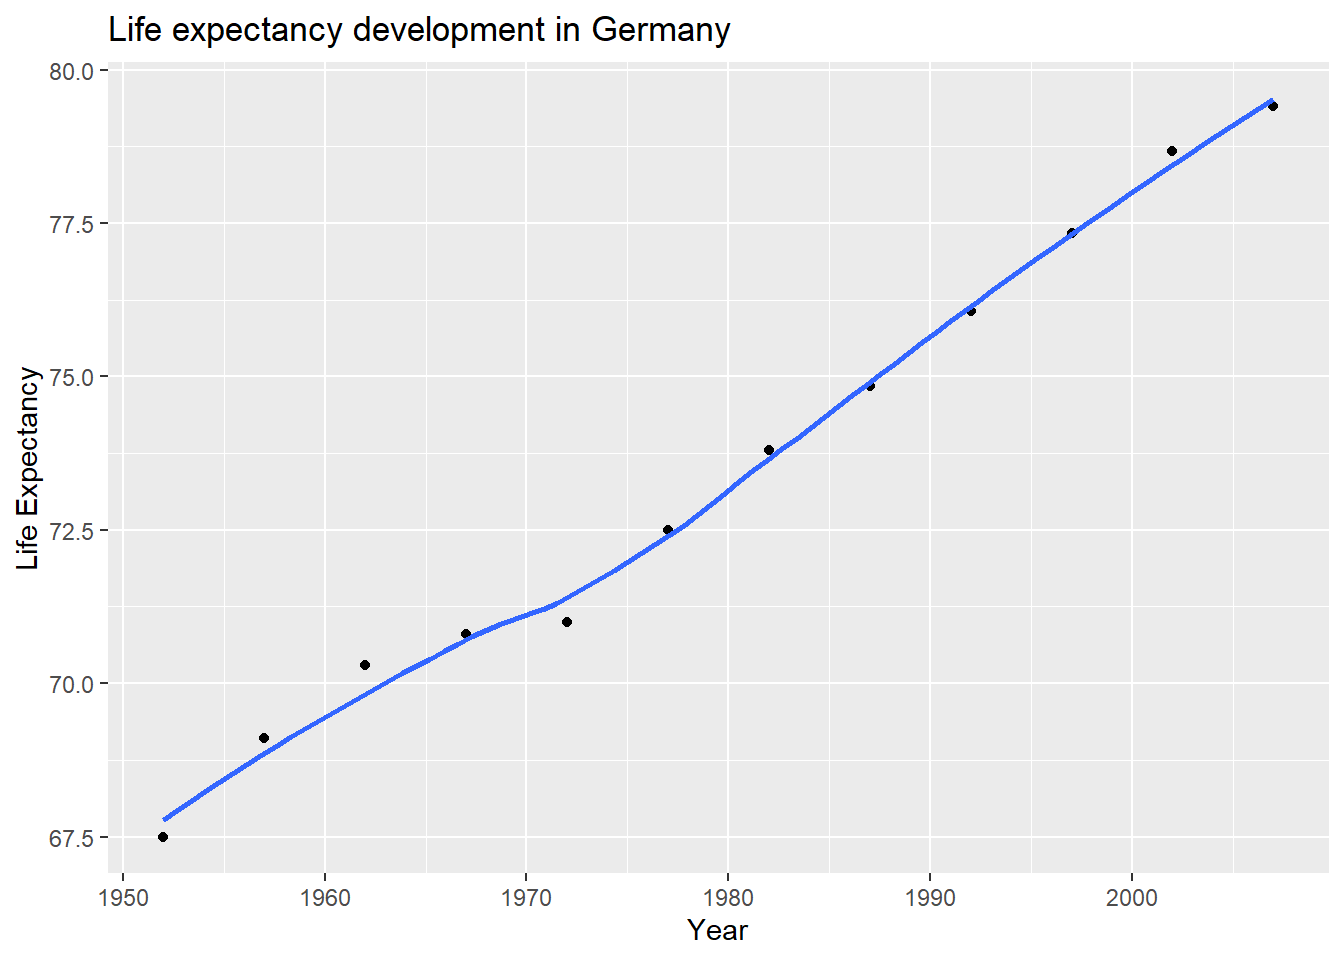
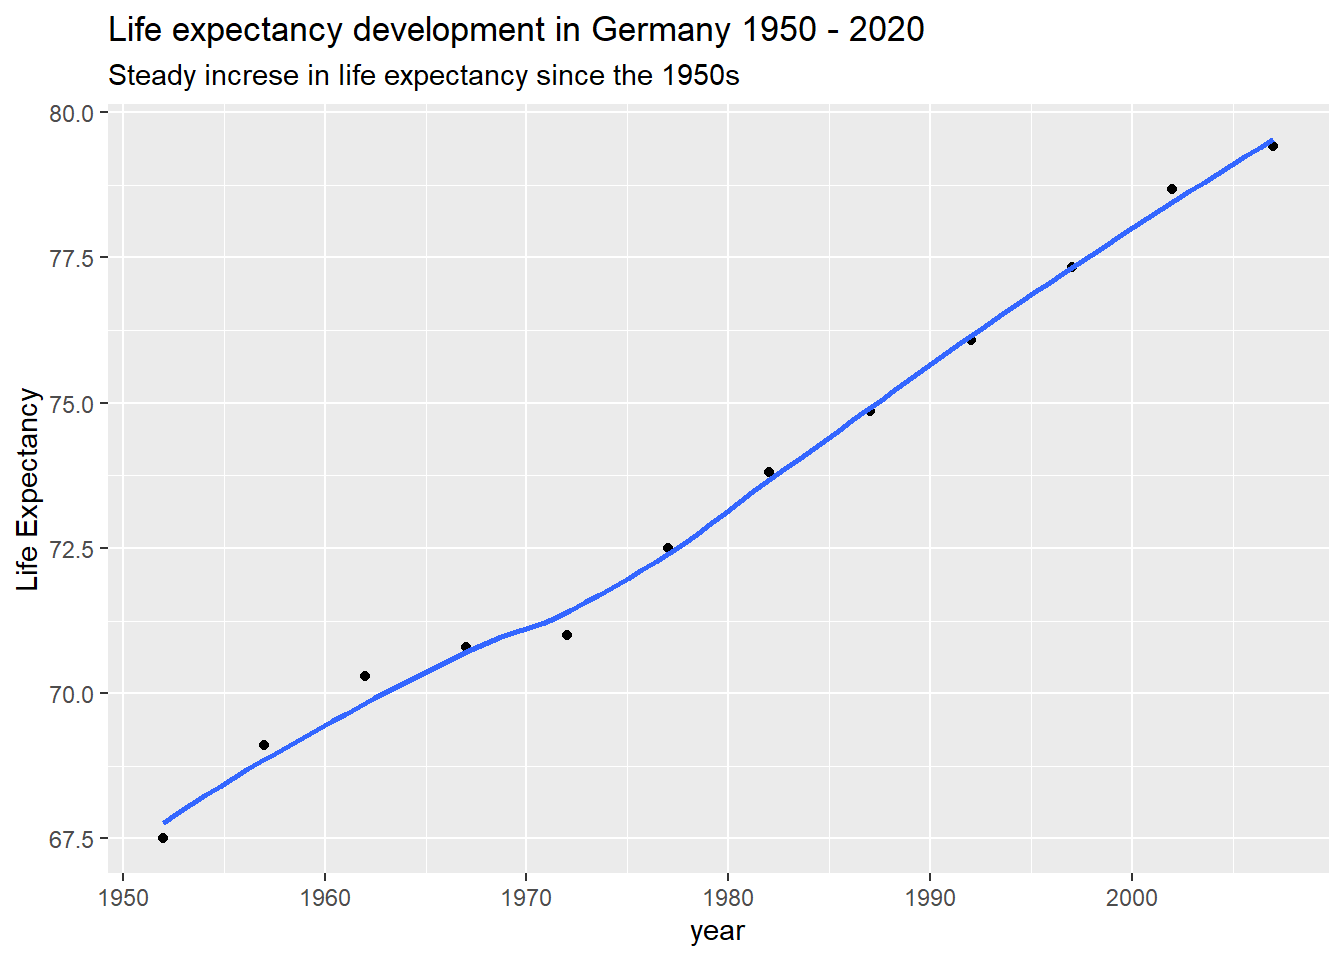
13-oct-20 2

diff --git a/public/blogs/blog15/index.html b/public/blogs/blog15/index.html
@@ -114,34 +114,30 @@
 ## 18 Albania     Europe     1977    68.9  2509048     3533.
 ## 19 Albania     Europe     1982    70.4  2780097     3631.
 ## 20 Albania     Europe     1987    72    3075321     3739.</code></pre>
-<p>Your task is to produce two graphs of how life expectancy has changed over the years for the <code>country</code> and the <code>continent</code> you come from.</p>
-<p>I have created the <code>country_data</code> and <code>continent_data</code> with the code below.</p>
 <pre class="r"><code>country_data &lt;- gapminder %&gt;% 
             filter(country == &quot;Germany&quot;) # just choosing Germany, as this is where I come from
 
 continent_data &lt;- gapminder %&gt;% 
             filter(continent == &quot;Europe&quot;)</code></pre>
-<p>First, create a plot of life expectancy over time for the single country you chose. You should use <code>geom_point()</code> to see the actual data points and <code>geom_smooth(se = FALSE)</code> to plot the underlying trendlines. You need to remove the comments <strong>#</strong> from the lines below for your code to run.</p>
 <pre class="r"><code>  plot2 &lt;- ggplot(data = country_data, mapping = aes(x = year, y = lifeExp))+
   geom_point() +
   geom_smooth(se = FALSE) +
-  labs(title = &quot;Life expectancy development in Germany&quot;,
-  x = &quot;Year&quot;,
-  y = &quot;Life Expectancy&quot;) +
+  labs(subtitle = &quot;Steady increse in life expectancy since the 1950s&quot;,
+       title = &quot;Life expectancy development in Germany 1950 - 2020&quot;,
+        sx = &quot;Year&quot;,
+        y = &quot;Life Expectancy&quot;) +
 NULL
 
 
 print(plot2)</code></pre>
 <pre><code>## `geom_smooth()` using method = &#39;loess&#39; and formula &#39;y ~ x&#39;</code></pre>
 <p><img src="/blogs/blog15_files/figure-html/lifeExp_one_country_with_label-1.png" width="672" /></p>
-<p>Secondly, produce a plot for all countries in the <em>continent</em> you come from. (Hint: map the <code>country</code> variable to the colour aesthetic).</p>
 <pre class="r"><code>ggplot(data =  continent_data, mapping = aes(x =  year, y =  lifeExp, colour= country))+
     geom_point() + 
     geom_smooth(se = FALSE) +
     NULL</code></pre>
 <pre><code>## `geom_smooth()` using method = &#39;loess&#39; and formula &#39;y ~ x&#39;</code></pre>
 <p><img src="/blogs/blog15_files/figure-html/lifeExp_one_continent-1.png" width="672" /></p>
-<p>Finally, using the original <code>gapminder</code> data, produce a life expectancy over time graph, grouped (or faceted) by continent. We will remove all legends, adding the <code>theme(legend.position="none")</code> in the end of our ggplot.</p>
 <pre class="r"><code> ggplot(data = gapminder , mapping = aes(x = year  , y =  lifeExp, colour= country))+
     geom_point() + 
     geom_smooth(se = FALSE) +
@@ -150,14 +146,16 @@ print(plot2)</code></pre>
     NULL</code></pre>
 <pre><code>## `geom_smooth()` using method = &#39;loess&#39; and formula &#39;y ~ x&#39;</code></pre>
 <p><img src="/blogs/blog15_files/figure-html/lifeExp_facet_by_continent-1.png" width="672" /></p>
-<p>Given these trends, what can you say about life expectancy since 1952? Again, don’t just say what’s happening in the graph. Tell some sort of story and speculate about the differences in the patterns.</p>
-<div id="germany" class="section level1">
-<h1>Germany</h1>
+<div id="commentary" class="section level1">
+<h1>Commentary</h1>
+<div id="overall" class="section level2">
+<h2>Overall</h2>
+<p>Overall life expectancy trend is positive. Though, it seems that the variance in life expectancy in European countries in 1952 was smaller compared to all other continents (exc. Oceania), this still seems to hold at the end of the observation period. With African countries’ life expectancies still being quite spread apart.</p>
+</div>
+<div id="germany" class="section level2">
+<h2>Germany</h2>
 <p>Life expectancy in Germany has been almost linearly increasing since 1952. Nowadays, people on average are expected to live around 80 years, which seems quite an increase from around 68 years in 1952. A period of strong economic growth, accompanied by progress in the medical / health area seem to drive this positive trend.</p>
 </div>
-<div id="overall" class="section level1">
-<h1>Overall</h1>
-<p>Overall life expectancy trend is positive. Though, it seems that the variance in life expectancy in European countries in 1952 was smaller compared to all other continents (exc. Oceania), this still seems to hold at the end of the observation period. With African countries’ life expectancies still being quite spread apart.</p>
 </div>
 
                         </div>

diff --git a/content/blogs/blog15.html b/content/blogs/blog15.html
@@ -38,34 +38,30 @@ output: html_document
 ## 18 Albania     Europe     1977    68.9  2509048     3533.
 ## 19 Albania     Europe     1982    70.4  2780097     3631.
 ## 20 Albania     Europe     1987    72    3075321     3739.</code></pre>
-<p>Your task is to produce two graphs of how life expectancy has changed over the years for the <code>country</code> and the <code>continent</code> you come from.</p>
-<p>I have created the <code>country_data</code> and <code>continent_data</code> with the code below.</p>
 <pre class="r"><code>country_data &lt;- gapminder %&gt;% 
             filter(country == &quot;Germany&quot;) # just choosing Germany, as this is where I come from
 
 continent_data &lt;- gapminder %&gt;% 
             filter(continent == &quot;Europe&quot;)</code></pre>
-<p>First, create a plot of life expectancy over time for the single country you chose. You should use <code>geom_point()</code> to see the actual data points and <code>geom_smooth(se = FALSE)</code> to plot the underlying trendlines. You need to remove the comments <strong>#</strong> from the lines below for your code to run.</p>
 <pre class="r"><code>  plot2 &lt;- ggplot(data = country_data, mapping = aes(x = year, y = lifeExp))+
   geom_point() +
   geom_smooth(se = FALSE) +
-  labs(title = &quot;Life expectancy development in Germany&quot;,
-  x = &quot;Year&quot;,
-  y = &quot;Life Expectancy&quot;) +
+  labs(subtitle = &quot;Steady increse in life expectancy since the 1950s&quot;,
+       title = &quot;Life expectancy development in Germany 1950 - 2020&quot;,
+        sx = &quot;Year&quot;,
+        y = &quot;Life Expectancy&quot;) +
 NULL
 
 
 print(plot2)</code></pre>
 <pre><code>## `geom_smooth()` using method = &#39;loess&#39; and formula &#39;y ~ x&#39;</code></pre>
 <p><img src="/blogs/blog15_files/figure-html/lifeExp_one_country_with_label-1.png" width="672" /></p>
-<p>Secondly, produce a plot for all countries in the <em>continent</em> you come from. (Hint: map the <code>country</code> variable to the colour aesthetic).</p>
 <pre class="r"><code>ggplot(data =  continent_data, mapping = aes(x =  year, y =  lifeExp, colour= country))+
     geom_point() + 
     geom_smooth(se = FALSE) +
     NULL</code></pre>
 <pre><code>## `geom_smooth()` using method = &#39;loess&#39; and formula &#39;y ~ x&#39;</code></pre>
 <p><img src="/blogs/blog15_files/figure-html/lifeExp_one_continent-1.png" width="672" /></p>
-<p>Finally, using the original <code>gapminder</code> data, produce a life expectancy over time graph, grouped (or faceted) by continent. We will remove all legends, adding the <code>theme(legend.position="none")</code> in the end of our ggplot.</p>
 <pre class="r"><code> ggplot(data = gapminder , mapping = aes(x = year  , y =  lifeExp, colour= country))+
     geom_point() + 
     geom_smooth(se = FALSE) +
@@ -74,12 +70,14 @@ print(plot2)</code></pre>
     NULL</code></pre>
 <pre><code>## `geom_smooth()` using method = &#39;loess&#39; and formula &#39;y ~ x&#39;</code></pre>
 <p><img src="/blogs/blog15_files/figure-html/lifeExp_facet_by_continent-1.png" width="672" /></p>
-<p>Given these trends, what can you say about life expectancy since 1952? Again, don’t just say what’s happening in the graph. Tell some sort of story and speculate about the differences in the patterns.</p>
-<div id="germany" class="section level1">
-<h1>Germany</h1>
+<div id="commentary" class="section level1">
+<h1>Commentary</h1>
+<div id="overall" class="section level2">
+<h2>Overall</h2>
+<p>Overall life expectancy trend is positive. Though, it seems that the variance in life expectancy in European countries in 1952 was smaller compared to all other continents (exc. Oceania), this still seems to hold at the end of the observation period. With African countries’ life expectancies still being quite spread apart.</p>
+</div>
+<div id="germany" class="section level2">
+<h2>Germany</h2>
 <p>Life expectancy in Germany has been almost linearly increasing since 1952. Nowadays, people on average are expected to live around 80 years, which seems quite an increase from around 68 years in 1952. A period of strong economic growth, accompanied by progress in the medical / health area seem to drive this positive trend.</p>
 </div>
-<div id="overall" class="section level1">
-<h1>Overall</h1>
-<p>Overall life expectancy trend is positive. Though, it seems that the variance in life expectancy in European countries in 1952 was smaller compared to all other continents (exc. Oceania), this still seems to hold at the end of the observation period. With African countries’ life expectancies still being quite spread apart.</p>
 </div>

diff --git a/public/blogs/blog6/index.html b/public/blogs/blog6/index.html
@@ -81,10 +81,8 @@
                             
 
 
-<p>.. beers, wine and other spirits!</p>
-<div id="approach" class="section level2">
-<h2>Approach</h2>
-<p>ADD</p>
+<div id="beers-wine-and-other-spirits" class="section level2">
+<h2>.. beers, wine and other spirits!</h2>
 <pre class="r"><code>knitr::opts_chunk$set(
   message = FALSE, 
   warning = FALSE, 
@@ -452,7 +450,13 @@ top25_beer &lt;- beer %&gt;%
 
 #Use ggplot() to plot only the top 25 entries summarised in top25_beer, adjusting the x-axis labels for readibility, as well as colour, axis labels and title
 
-ggplot(top25_beer, aes(x = reorder(country, desc(beer_servings)), y= beer_servings),) + geom_col(fill=&quot;blue&quot;) + labs(x=&quot;Country&quot;,y = &quot;Beer Servings Consumed Per Person&quot;, title = &quot;Top 25 Beer Consuming Countries&quot;) + theme(axis.text.x = element_text(angle=30, size=7))</code></pre>
+ggplot(top25_beer, aes(x = reorder(country, desc(beer_servings)), y= beer_servings),) +
+      geom_col(fill=&quot;blue&quot;) +
+      labs(x=&quot;Country&quot;,
+           y = &quot;Beer Servings Consumed Per Person&quot;,
+           title = &quot;Namibia beats Czech Republic for the beer consumption top spot&quot;,
+           subtitle = &quot;Top 25 Beer Consuming Countries&quot;) + 
+  theme(axis.text.x = element_text(angle=30, size=7))</code></pre>
 <p><img src="/blogs/blog6_files/figure-html/beer_plot-1.png" width="648" style="display: block; margin: auto;" /></p>
 <pre class="r"><code>#Use the pipe to select only the beer_servings variable, and arrange countries in descending order of serving
 

diff --git a/content/blogs/blog6.html b/content/blogs/blog6.html
@@ -5,10 +5,8 @@ output: html_document
 
 
 
-<p>.. beers, wine and other spirits!</p>
-<div id="approach" class="section level2">
-<h2>Approach</h2>
-<p>ADD</p>
+<div id="beers-wine-and-other-spirits" class="section level2">
+<h2>.. beers, wine and other spirits!</h2>
 <pre class="r"><code>knitr::opts_chunk$set(
   message = FALSE, 
   warning = FALSE, 
@@ -376,7 +374,13 @@ top25_beer &lt;- beer %&gt;%
 
 #Use ggplot() to plot only the top 25 entries summarised in top25_beer, adjusting the x-axis labels for readibility, as well as colour, axis labels and title
 
-ggplot(top25_beer, aes(x = reorder(country, desc(beer_servings)), y= beer_servings),) + geom_col(fill=&quot;blue&quot;) + labs(x=&quot;Country&quot;,y = &quot;Beer Servings Consumed Per Person&quot;, title = &quot;Top 25 Beer Consuming Countries&quot;) + theme(axis.text.x = element_text(angle=30, size=7))</code></pre>
+ggplot(top25_beer, aes(x = reorder(country, desc(beer_servings)), y= beer_servings),) +
+      geom_col(fill=&quot;blue&quot;) +
+      labs(x=&quot;Country&quot;,
+           y = &quot;Beer Servings Consumed Per Person&quot;,
+           title = &quot;Namibia beats Czech Republic for the beer consumption top spot&quot;,
+           subtitle = &quot;Top 25 Beer Consuming Countries&quot;) + 
+  theme(axis.text.x = element_text(angle=30, size=7))</code></pre>
 <p><img src="/blogs/blog6_files/figure-html/beer_plot-1.png" width="648" style="display: block; margin: auto;" /></p>
 <pre class="r"><code>#Use the pipe to select only the beer_servings variable, and arrange countries in descending order of serving
 

diff --git a/content/blogs/about-me1.html b/content/blogs/about-me1.html
@@ -25,7 +25,7 @@ output: html_document
 <div id="professional-experience" class="section level1">
 <h1>Professional Experience</h1>
 <ul>
-<li>Deloitte GmbH: Intern | Financial Advisory, Sport Business Group</li>
+<li>Deloitte Deutschland GmbH: Intern | Financial Advisory, Sport Business Group</li>
 <li>UniCredit AG: Intern | Investment Banking, M&amp;A, ECM</li>
 <li>Deutsche Bank AG: Summer Analyst | Investment Banking, M&amp;A, ECM</li>
 </ul>

diff --git a/public/blogs/about-me1/index.html b/public/blogs/about-me1/index.html
@@ -101,7 +101,7 @@
 <div id="professional-experience" class="section level1">
 <h1>Professional Experience</h1>
 <ul>
-<li>Deloitte GmbH: Intern | Financial Advisory, Sport Business Group</li>
+<li>Deloitte Deutschland GmbH: Intern | Financial Advisory, Sport Business Group</li>
 <li>UniCredit AG: Intern | Investment Banking, M&amp;A, ECM</li>
 <li>Deutsche Bank AG: Summer Analyst | Investment Banking, M&amp;A, ECM</li>
 </ul>
